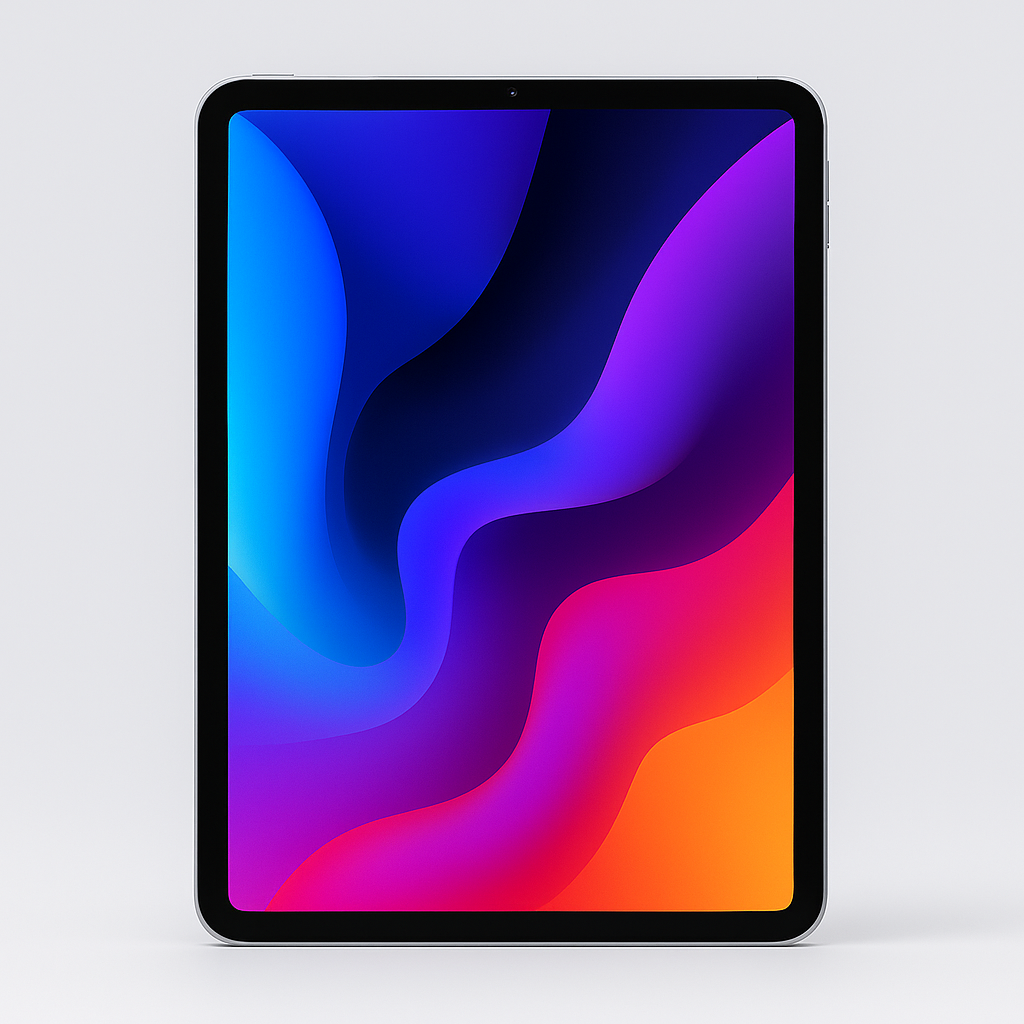
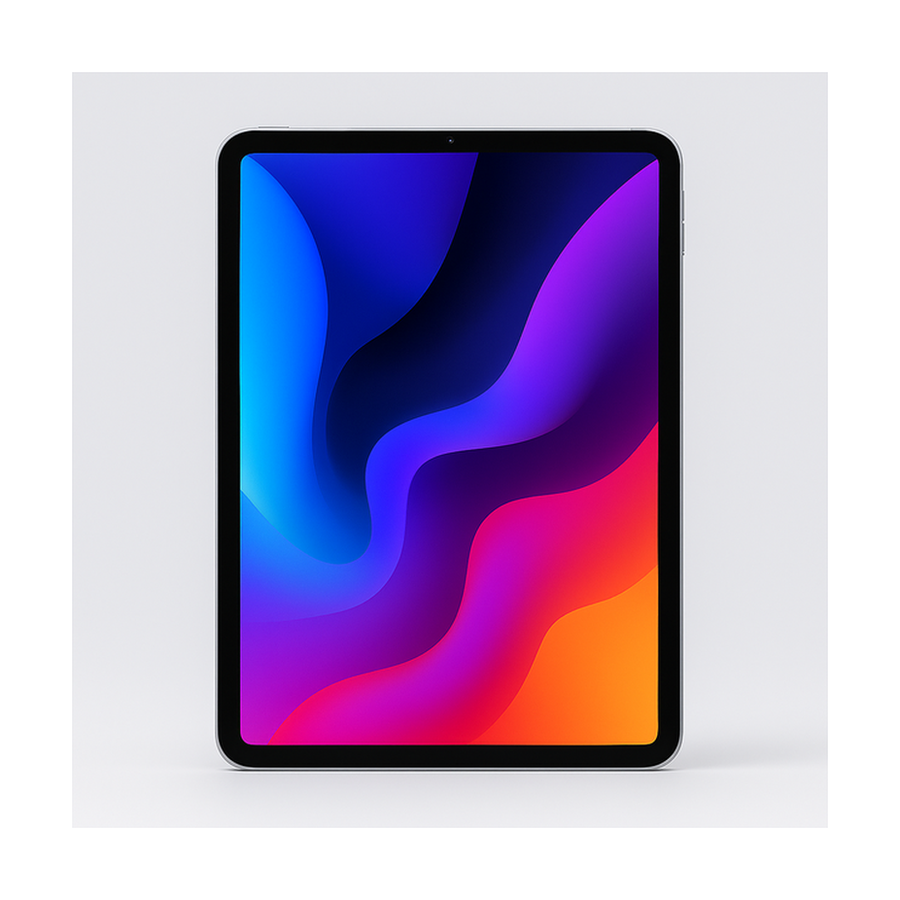
Update Apple product photos and tighten product card image framing.
Refresh MacBook, AirPods, iPhone, and Apple Watch assets, adjust home/list media layout for square contain, and drop unused interview architecture doc.

diff --git a/client/src/components/home/HomeProductCard.vue b/client/src/components/home/HomeProductCard.vue
@@ -101,17 +101,20 @@ const isSoldOut = computed(() => stockLabel.value?.tone === "soldout");
 }
 
 .home-product-card__media {
-  height: 7.5rem;
-  display: flex;
-  align-items: center;
-  justify-content: center;
-  background: var(--color-surface-sunken);
+  position: relative;
+  aspect-ratio: 1 / 1;
+  width: 100%;
+  overflow: hidden;
+  background: #fff;
 }
 
 .home-product-card__img {
+  position: absolute;
+  inset: 0;
   width: 100%;
   height: 100%;
   object-fit: contain;
+  object-position: center;
 }
 
 .home-product-card__body {

diff --git a/client/src/views/shop/ProductList.vue b/client/src/views/shop/ProductList.vue
@@ -65,7 +65,7 @@
           <div class="absolute top-3 right-3 z-10" @click.stop>
             <WishlistButton :product-id="p.id" size="sm" />
           </div>
-          <div class="shop-card-product-media h-36 sm:h-48">
+          <div class="shop-card-product-media aspect-square bg-white">
             <img
               :src="productImageSrc(p)"
               :alt="p.name"
